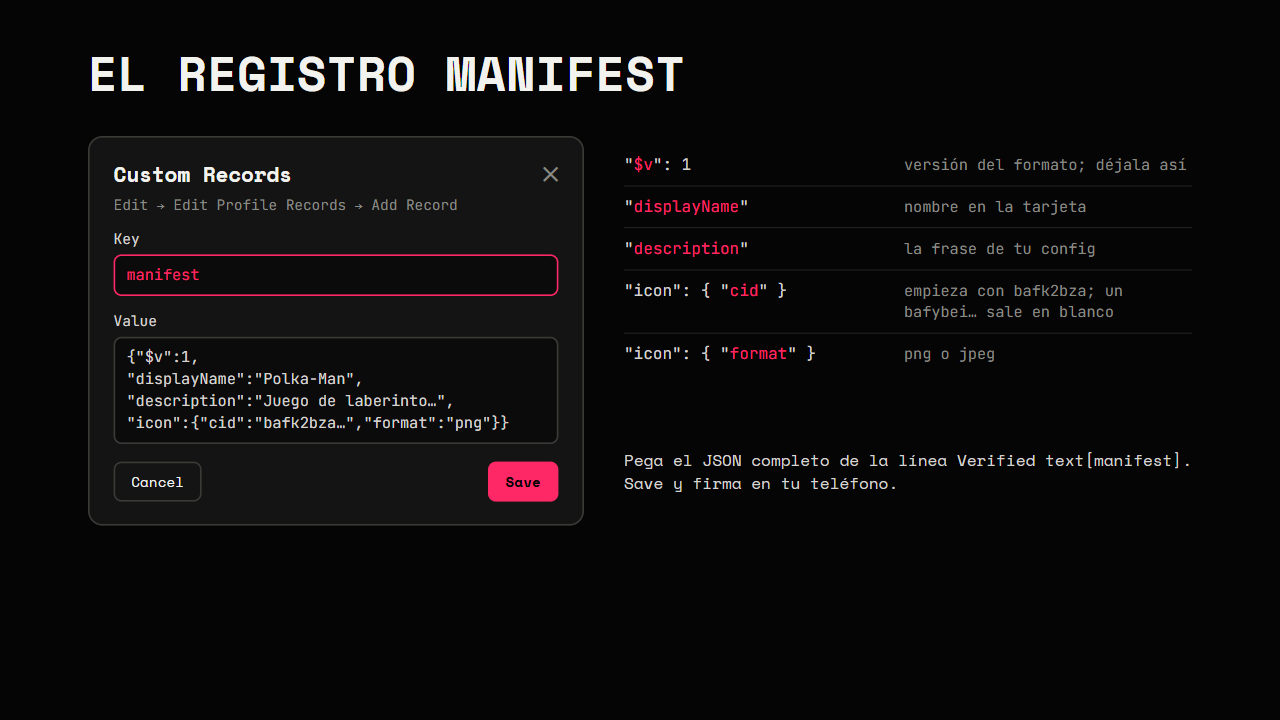
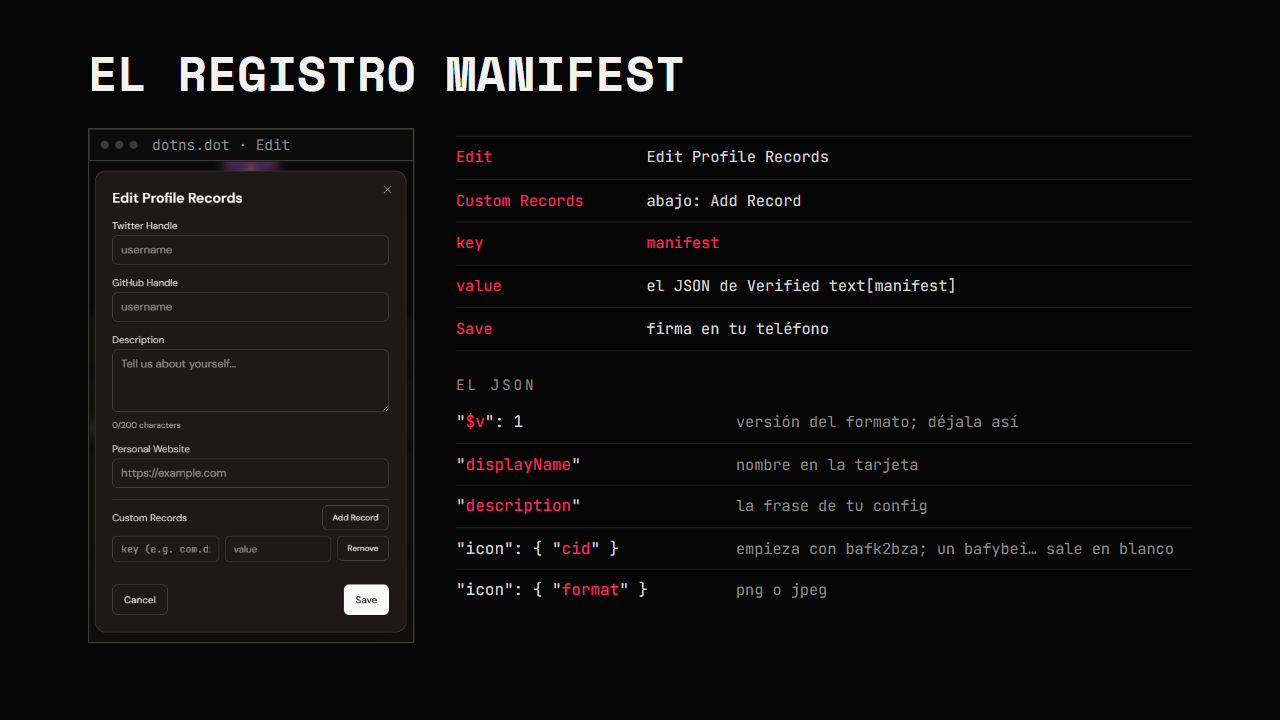
docs(cap6): captura del manifest, renovar solo cuando haga falta y correcciones de la revisión

diff --git a/slides/06-publicar.html b/slides/06-publicar.html
@@ -127,17 +127,10 @@
 /* Líneas que se copian */
 .p6-hi { color: var(--accent); background: rgba(255, 40, 103, .12); }
 
-/* Diálogo de Custom Records dibujado */
-.p6-dlg { border: 2px solid #3a3a37; border-radius: 18px; background: #141414; padding: 26px 30px 28px; }
-.p6-dlg .hd { display: flex; justify-content: space-between; align-items: center; font: 700 26px var(--display); }
-.p6-dlg .hd i { font-style: normal; color: var(--muted); font-size: 24px; }
-.p6-dlg .path { font: 18px var(--mono); color: var(--muted); margin-top: 8px; }
-.p6-dlg .lb { font: 18px var(--mono); color: #d6d3d1; margin-top: 20px; }
-.p6-dlg .in { border: 2px solid #3a3a37; border-radius: 10px; background: #0b0b0b; padding: 10px 14px; font: 19px/1.45 var(--mono); color: #d6d3d1; margin-top: 8px; }
-.p6-dlg .in.pink { border-color: var(--accent); color: var(--accent); }
-.p6-dlg .bt { display: flex; justify-content: space-between; margin-top: 22px; }
-.p6-dlg .bt span { border: 2px solid #3a3a37; border-radius: 10px; padding: 10px 20px; font: 18px var(--display); }
-.p6-dlg .bt span.pink { background: var(--accent); border-color: var(--accent); color: #000; font-weight: 700; }
+/* Captura real de DotNS, recortada al diálogo Edit Profile Records */
+.p6-shot { width: 404px; height: 600px; background: #000 url(../img/cap6/manifest.png) no-repeat; background-size: 1577px auto; background-position: -609px -113px; }
+.p6-notes.p6-wide > div { grid-template-columns: 220px 1fr; }
+.p6-notes span.pink { color: var(--accent); }
 
 /* JSON anotado */
 .p6-json > div { display: grid; grid-template-columns: 330px 1fr; column-gap: 20px; align-items: baseline; padding: 12px 0; border-bottom: 1px solid var(--line); }
@@ -343,37 +336,38 @@
   <!-- 8 · Custom Records -->
   <section class="slide flat" data-title="El registro manifest">
     <div class="item" style="left:110px; top:60px;"><div class="h">El registro manifest</div></div>
-    <div class="item p6-dlg" style="left:110px; top:170px; width:620px;">
-      <div class="hd"><span>Custom Records</span><i aria-hidden="true">✕</i></div>
-      <div class="path">Edit → Edit Profile Records → Add Record</div>
-      <div class="lb">Key</div>
-      <div class="in pink">manifest</div>
-      <div class="lb">Value</div>
-      <div class="in">{"$v":1,<br>"displayName":"Polka-Man",<br>"description":"Juego de laberinto…",<br>"icon":{"cid":"bafk2bza…","format":"png"}}</div>
-      <div class="bt"><span>Cancel</span><span class="pink">Save</span></div>
+    <div class="item j-win" style="left:110px; top:160px; width:408px;"><div class="j-bar"><i></i><i></i><i></i><span>dotns.dot · Edit</span></div><div class="p6-shot" role="img" aria-label="Captura de DotNS: diálogo Edit Profile Records; abajo, Custom Records con Add Record, los campos key y value, y los botones Cancel y Save"></div></div>
+    <div class="item" style="left:570px; top:170px; width:920px;">
+      <div class="p6-notes p6-wide">
+        <div><code>Edit</code><span>Edit Profile Records</span></div>
+        <div><code>Custom Records</code><span>abajo: Add Record</span></div>
+        <div><code>key</code><span class="pink">manifest</span></div>
+        <div><code>value</code><span>el JSON de Verified text[manifest]</span></div>
+        <div><code>Save</code><span>firma en tu teléfono</span></div>
+      </div>
+      <div class="j-label" style="margin-top:30px;">El JSON</div>
+      <div class="p6-json" style="margin-top:10px;">
+        <div><code>"<b>$v</b>": 1</code><span>versión del formato; déjala así</span></div>
+        <div><code>"<b>displayName</b>"</code><span>nombre en la tarjeta</span></div>
+        <div><code>"<b>description</b>"</code><span>la frase de tu config</span></div>
+        <div><code>"icon": { "<b>cid</b>" }</code><span>empieza con bafk2bza; un bafybei… sale en blanco</span></div>
+        <div><code>"icon": { "<b>format</b>" }</code><span>png o jpeg</span></div>
+      </div>
     </div>
-    <div class="item p6-json" style="left:780px; top:180px; width:710px;">
-      <div><code>"<b>$v</b>": 1</code><span>versión del formato; déjala así</span></div>
-      <div><code>"<b>displayName</b>"</code><span>nombre en la tarjeta</span></div>
-      <div><code>"<b>description</b>"</code><span>la frase de tu config</span></div>
-      <div><code>"icon": { "<b>cid</b>" }</code><span>empieza con bafk2bza; un bafybei… sale en blanco</span></div>
-      <div><code>"icon": { "<b>format</b>" }</code><span>png o jpeg</span></div>
-    </div>
-    <div class="item lead" style="left:780px; top:560px; width:710px; font-size:20px;">Pega el JSON completo de la línea Verified text[manifest]. Save y firma en tu teléfono.</div>
   </section>
 
   <!-- 9 · Mantenerla viva -->
   <section class="slide plain" data-title="Mantenerla viva">
     <div class="item" style="left:110px; top:70px;"><div class="h">Mantenerla viva</div></div>
-    <div class="item lead" style="left:110px; top:160px; width:1380px; font-size:22px;">Bulletin borra lo que subes a los ~14 días: la app y el icono.</div>
-    <div class="item p6-time" style="left:250px; top:250px; width:1100px;">
+    <div class="item lead" style="left:110px; top:160px; width:1380px; font-size:22px;">Bulletin borra lo que subes a los ~14 días. Vuelve a publicar solo para renovarlo antes de esa fecha o cuando tengas una versión nueva.</div>
+    <div class="item p6-time" style="left:250px; top:280px; width:1100px;">
       <div class="ln"></div>
       <div class="ln pink" style="width:79%;"></div>
       <div class="mk" style="left:0;"><div class="d">Día 0</div><i></i><span>publicas</span></div>
-      <div class="mk pink" style="left:79%;"><div class="d">Antes de la demo</div><i></i><span>vuelve a publicar</span></div>
+      <div class="mk pink" style="left:79%;"><div class="d">Día 11</div><i></i><span>vuelve a publicar (antes del día 14)</span></div>
       <div class="mk" style="left:100%;"><div class="d">Día 14</div><i></i><span>se borra</span></div>
     </div>
-    <div class="item j-parts" style="left:110px; top:500px; width:1380px; grid-template-columns:1fr 1fr 1fr 1fr;">
+    <div class="item j-parts" style="left:110px; top:530px; width:1380px; grid-template-columns:1fr 1fr 1fr 1fr;">
       <div class="j-part pink"><b><i>01</i>Corre pad</b><p>Las 4 líneas: APP_DOT nuevo.</p></div>
       <div class="j-part pink"><b><i>02</i>CID nuevo</b><p>Resolve → Save → firma.</p></div>
       <div class="j-part"><b><i>03</i>El manifest</b><p>Se queda si no cambiaste icono, nombre ni descripción.</p></div>
@@ -386,7 +380,7 @@
     <div class="item" style="left:110px; top:70px;"><div class="h">Compártela</div></div>
     <div class="item p6-share" style="left:110px; top:180px; width:1380px;">
       <div class="pink"><span class="j-label">En el Host</span><b>tu-app.dot</b><span>Polkadot App o Desktop: búscala por su nombre.</span></div>
-      <div><span class="j-label">En el navegador</span><b>https://tu-app.dev-dot.li</b><span>Para verla sin el Host; Conectar y firmar no van ahí.</span></div>
+      <div><span class="j-label">En el navegador</span><b>https://tu-app.dev-dot.li</b><span>Cualquiera la abre para verla. Conectar la cuenta y firmar: en la Polkadot App o Desktop.</span></div>
       <div><span class="j-label">El código</span><b>github.com/tu-usuario/tu-app</b><span>Tu repo, con un README corto.</span></div>
     </div>
     <div class="item j-win" style="left:110px; top:470px; width:880px;">
@@ -433,9 +427,9 @@ Correrla: pnpm install · pnpm dev</div>
       <div class="a">→</div>
       <div class="box pink"><div class="n">05</div><b>manifest</b><span>Custom Record con el JSON</span></div>
     </div>
-    <div class="item lead" style="left:110px; top:390px; width:1380px; font-size:22px;">Icono y config: una vez. pad y Resolve: en cada versión. El registro manifest: solo si cambia.</div>
+    <div class="item lead" style="left:110px; top:390px; width:1380px; font-size:22px;">Icono y config: una vez. pad y Resolve: en cada versión nueva y al renovar. El registro manifest: solo si cambia.</div>
     <div class="panel" style="left:110px; top:500px; width:900px; padding:28px 40px;">
-      <div class="j-label">Cada cambio y antes de la demo</div>
+      <div class="j-label">Versión nueva o renovar antes de ~14 días</div>
       <div class="j-pub"><span>pnpm build</span><i>→</i><span>pad</span><i>→</i><span>CID</span><i>→</i><span>Resolve</span><i>→</i><span class="pink">abre tu .dot</span></div>
     </div>
     <div class="panel" style="left:1060px; top:500px; width:430px; padding:30px 44px;">

diff --git a/slides/05-el-juego.html b/slides/05-el-juego.html
@@ -469,7 +469,7 @@
       <div class="bar"><i></i><i></i><i></i><span>PowerShell · raíz de tu repo</span></div>
       <div class="body code j-cmd"><div><span class="kw">function</span> pad { $env:PAD_UPDATE_CHECK = '0'; pnpm dlx --ignore-scripts @polkadot-community-foundation/polkadot-app-deploy@0.16.7 @args }</div><div>$tmp = 'tmp' + (-join ((Get-Date -Format 'yyyyMMddHHmmss').ToCharArray() | ForEach-Object { [char](97 + [int]"$_") })) + '.dot'</div><div><span class="kw">pad</span> .\dist $tmp --env devnet --js-merkle --no-manifest</div></div>
     </div>
-    <div class="item lead" style="left:110px; top:720px; width:880px; font-size:20px;"><span class="j-pink">Versión final con icono, nombre y descripción: capítulo 6</span></div>
+    <div class="item lead" style="left:110px; top:720px; width:880px; font-size:20px;"><span class="j-pink">La muestra y la versión final con icono, nombre y descripción: capítulo 6</span></div>
     <div class="item j-win j-shot" style="left:1040px; top:450px; width:450px;">
       <div class="j-bar"><i></i><i></i><i></i><span>dotns.dot · Resolve</span></div>
       <img src="../img/dotns.png" alt="Diálogo Resolve to IPFS de DotNS: campo IPFS Hash or Gateway URL, botones Cancel y Save">

diff --git a/game/vite.config.js b/game/vite.config.js
@@ -6,6 +6,8 @@ const STUB = '\0descriptor-sin-usar:';
 // @parity/product-sdk-chain-client importa de forma dinámica los metadatos de todas las cadenas
 // (presets de getChainAPI) aunque el juego solo usa devnet-asset-hub. En el build se cambian los
 // demás descriptores por un módulo vacío para que no terminen en dist.
+// Solo aplica en el build: si el juego llega a importar otra cadena, en pnpm dev y en los tests
+// funciona, pero en dist queda vacía. Agrega su subruta a la condición de resolveId.
 export function soloDescriptorDevnet() {
   return {
     name: 'solo-descriptor-devnet',

diff --git a/contenido/06-publicar.md b/contenido/06-publicar.md
@@ -4,7 +4,7 @@
 
 En el [capítulo 5](./05-el-juego.md) publicaste tu juego en tu `.dot` para probarlo dentro del Host.
 Aquí haces la versión final: la misma app, en el mismo dominio, ahora con **icono, nombre y
-descripción** en su tarjeta. Al final sabes mantenerla viva hasta la demo y compartirla.
+descripción** en su tarjeta. Al final sabes mantenerla publicada y compartirla.
 
 Comprobado con `pad` 0.16.7 en Products Devnet, con Polka-Man en `polka-man.dot`, en Polkadot Desktop
 y en la Polkadot App para Android.
@@ -104,7 +104,7 @@ export default {
 | `executables` | Tu build: `./dist`, la carpeta que deja `pnpm build`. `kind` y `appVersion` déjalos así |
 
 Lo escribes **una vez** y va en tu commit. `pad` lo encuentra solo: lo busca en la carpeta del build y
-en las de arriba. Antes de subir nada, revisa que el dominio sea válido y que el icono exista.
+en las de arriba. Antes de subir nada, `pad` revisa que el dominio sea válido y que el icono exista.
 
 ---
 
@@ -175,10 +175,13 @@ dominio.
 
 ![El registro manifest: la llave manifest y el JSON que copiaste](../img/cap6/custom-records.png)
 
-1. En la misma fila, toca Edit → Edit Profile Records → pestaña Custom Records → Add Record.
-2. Llave (key): `manifest`.
-3. Valor (value): el JSON que copiaste, completo.
-4. Guarda y firma en el teléfono.
+1. En la misma fila, toca Edit. Se abre "Edit Profile Records": abajo, en Custom Records, toca Add Record.
+
+   ![Edit Profile Records en DotNS: abajo, Custom Records con Add Record y los campos key y value](../img/cap6/manifest.png "Custom Records: Add Record, key y value")
+
+2. En key: `manifest`.
+3. En value: el JSON que copiaste, completo.
+4. Toca Save y firma en el teléfono.
 
 El JSON de la muestra:
 
@@ -212,10 +215,13 @@ guardar un récord con una firma.
 
 ## 8. Mantenerla viva
 
-![Mantenerla viva: vuelve a publicar antes de que Bulletin borre el contenido a los 14 días](../img/cap6/mantenerla-viva.png)
+![Mantenerla viva: por ejemplo el día 11, vuelve a publicar antes de que Bulletin lo borre a los 14 días](../img/cap6/mantenerla-viva.png)
 
-Bulletin borra lo que subes a los ~14 días: el bundle y el icono. Vuelve a publicar antes de la
-demo o la evaluación, y cada vez que cambies tu app:
+Bulletin borra lo que subes a los ~14 días: el bundle y el icono. Vuelve a publicar solo cuando haga
+falta: para renovar el almacenamiento antes de que pasen los ~14 días (por ejemplo, el día 11) o para
+publicar una versión nueva. Si publicaste hace pocos días y no cambiaste nada, tu app sigue ahí.
+
+Cada vez:
 
 1. Corre las cuatro líneas de la [sección 5](#5-sube-app-e-icono). La tercera da un `APP_DOT` nuevo.
 2. Pega el CID nuevo con Resolve, Save y firma ([sección 6](#6-pégalo-en-tu-dominio)).
@@ -235,8 +241,8 @@ del capítulo 5. `pad` lee la config aunque pases `--no-manifest`; sin `APP_DOT`
 ## 9. Compártela
 
 - **En el Host:** `tu-app.dot`, en la Polkadot App o en Desktop.
-- **En el navegador:** `https://tu-app.dev-dot.li`, para verla sin el Host. Conectar y firmar solo
-  funcionan dentro del Host.
+- **En el navegador:** `https://tu-app.dev-dot.li`. Cualquiera la abre en el navegador para verla. Para
+  conectar la cuenta y firmar se necesita el Host: la Polkadot App o Desktop.
 - **El código:** tu repo en GitHub, con un `README.md` corto: qué es tu app en una frase, cómo
   abrirla (`tu-app.dot`), la dirección de tu contrato con su enlace a
   [Blockscout](https://blockscout-testnet.polkadot.io/) y cómo correrla (`pnpm install`, `pnpm dev`).

diff --git a/contenido/05-el-juego.md b/contenido/05-el-juego.md
@@ -492,7 +492,9 @@ Notas:
 - Nunca le pases tu propio dominio a `pad`; solo el nombre temporal.
 - La organización autorizó las 10 cuentas del pool con 1000 transacciones y 1000 MB cada una (unos
   10 GB en total).
-- Bulletin borra el contenido a los ~14 días: vuelve a publicar antes de la demo o la evaluación.
+- Bulletin borra el contenido a los ~14 días: vuelve a publicar cuando necesites renovar el
+  almacenamiento (antes de los ~14 días) o publicar una versión nueva
+  ([capítulo 6, sección 8](./06-publicar.md#8-mantenerla-viva)).
 - Icono y descripción (manifest) son opcionales y se ven en el [capítulo 6](./06-publicar.md): van
   en Profile → Edit → Edit Profile Records → Custom Records → Add Record, con la llave `manifest`.
 

diff --git a/prompts/07-publica.md b/prompts/07-publica.md
@@ -47,7 +47,7 @@ lenguaje simple con 3 ejemplos de mi juego. No escribas código.
 - Tu `.dot` abre el juego en Polkadot Desktop o en la Polkadot App.
 - El ranking carga dentro del Host.
 - El juego se ve bien en el celular, sin barras ni partes cortadas.
-- Anota la fecha: Bulletin borra lo publicado a los ~14 días; vuelve a publicar antes de la demo.
+- Anota la fecha: Bulletin borra lo publicado a los ~14 días. Vuelve a publicar antes de esa fecha para renovarlo, o cuando tengas una versión nueva.
 
 Esta fase no cambia código, así que no hay commit. Si el agente corrigió algo antes de publicar,
 haz un commit con ese cambio:

diff --git a/prompts/01-proyecto.md b/prompts/01-proyecto.md
@@ -20,6 +20,7 @@ Escribe tus respuestas en `SPEC.md`.
 ```text
 Lee SPEC.md (y el spec de esta parte si existe). Usa la skill polkadot-products-devnet.
 Crea un proyecto Vite + TypeScript con las versiones que indica la skill.
+En vite.config usa base './' y el plugin de la skill que deja solo el descriptor del devnet.
 Crea el proyecto en esta misma carpeta, sin borrar ni reemplazar SPEC.md, .agents/ ni
 skills-lock.json.
 Crea AGENTS.md con las reglas de SPEC.md y esta: "Todos los números del juego en un solo
